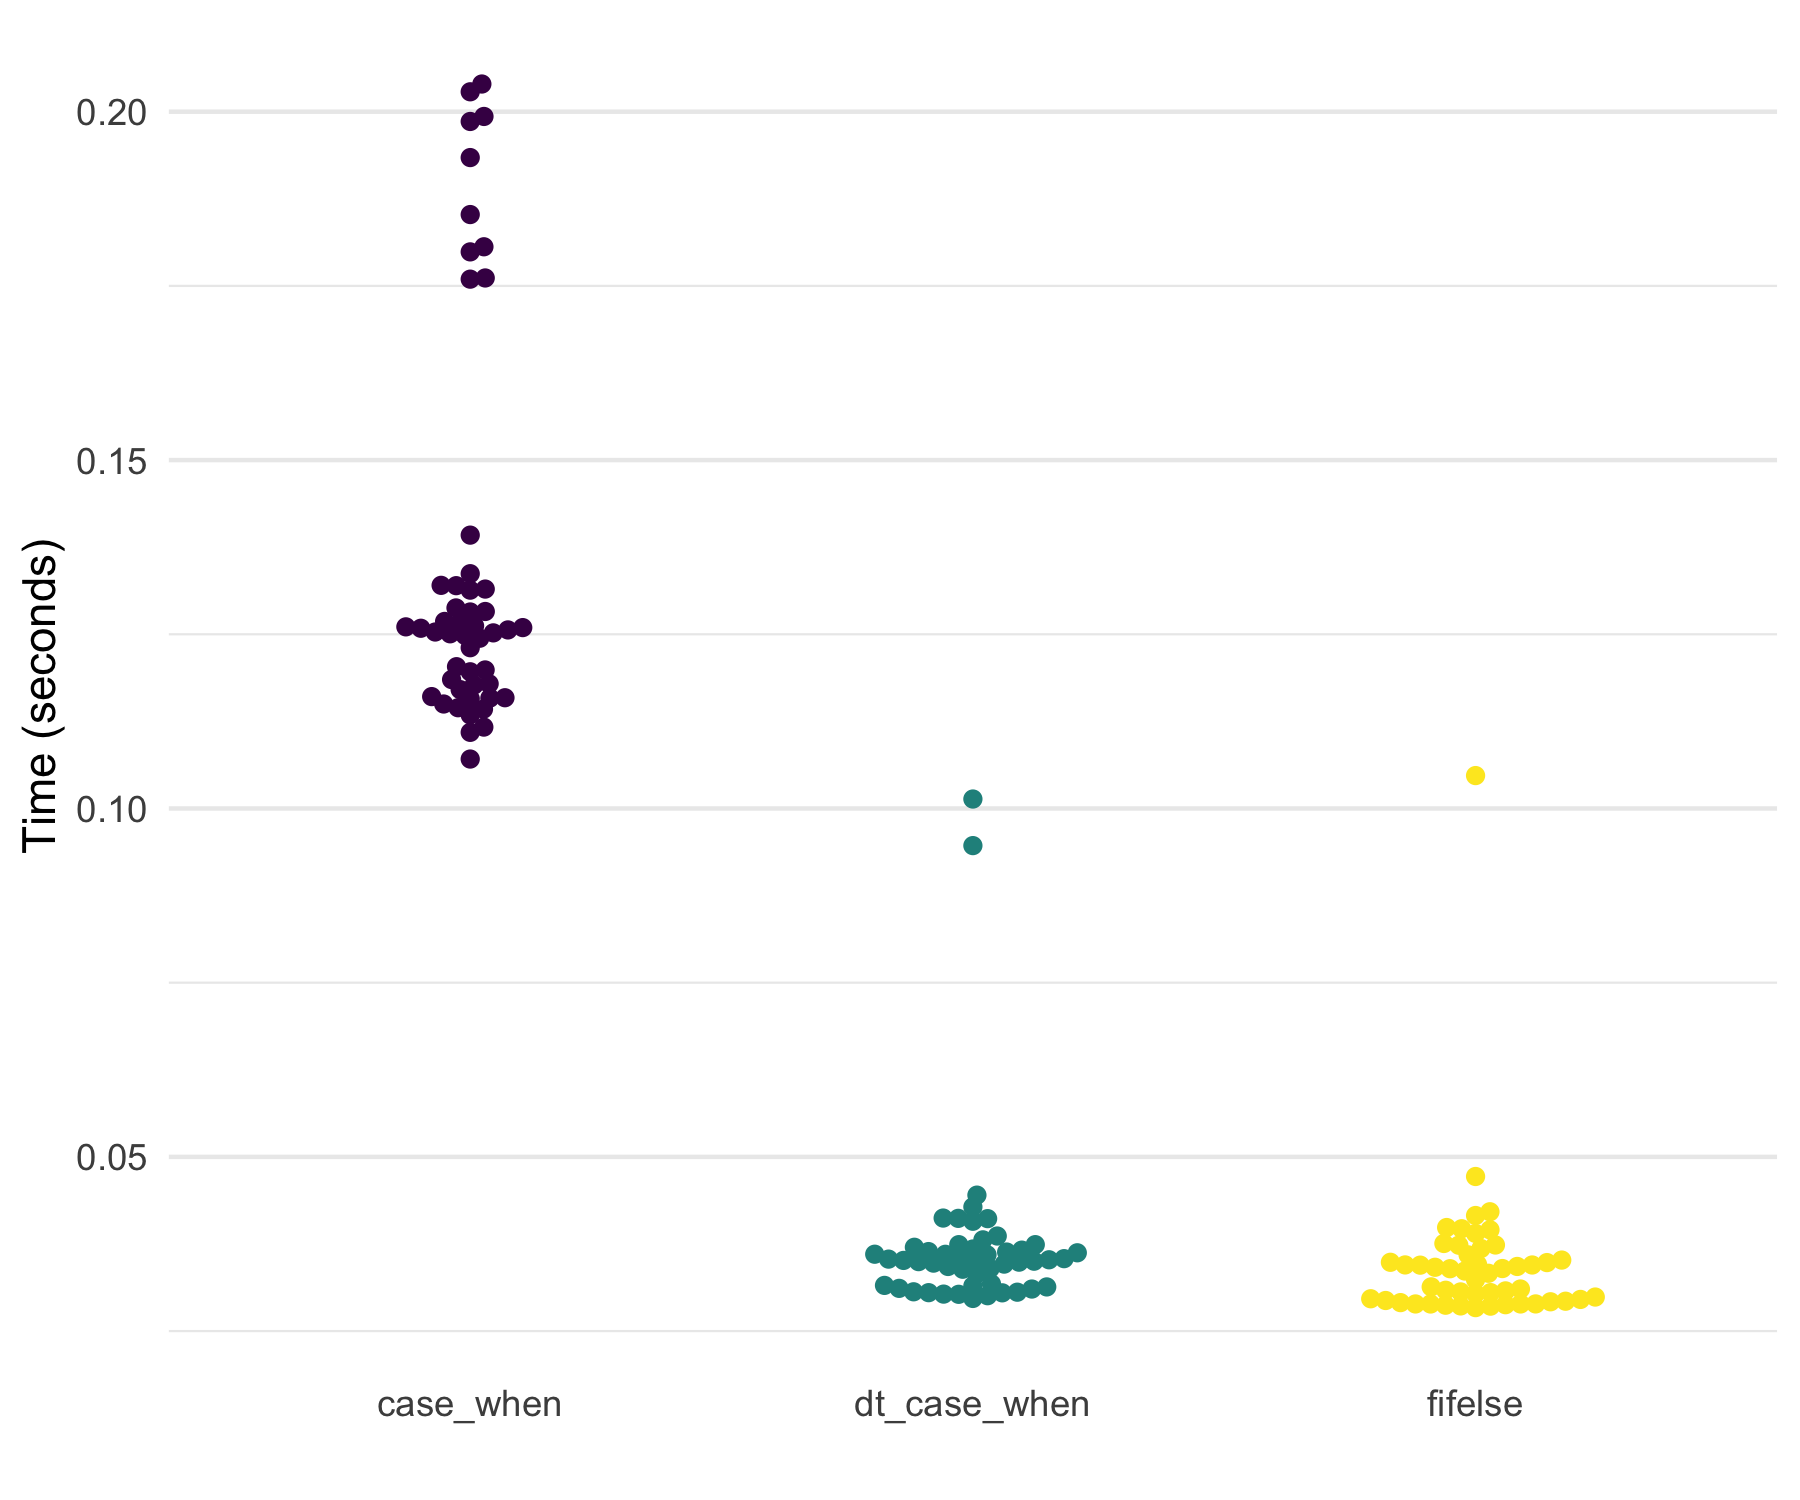
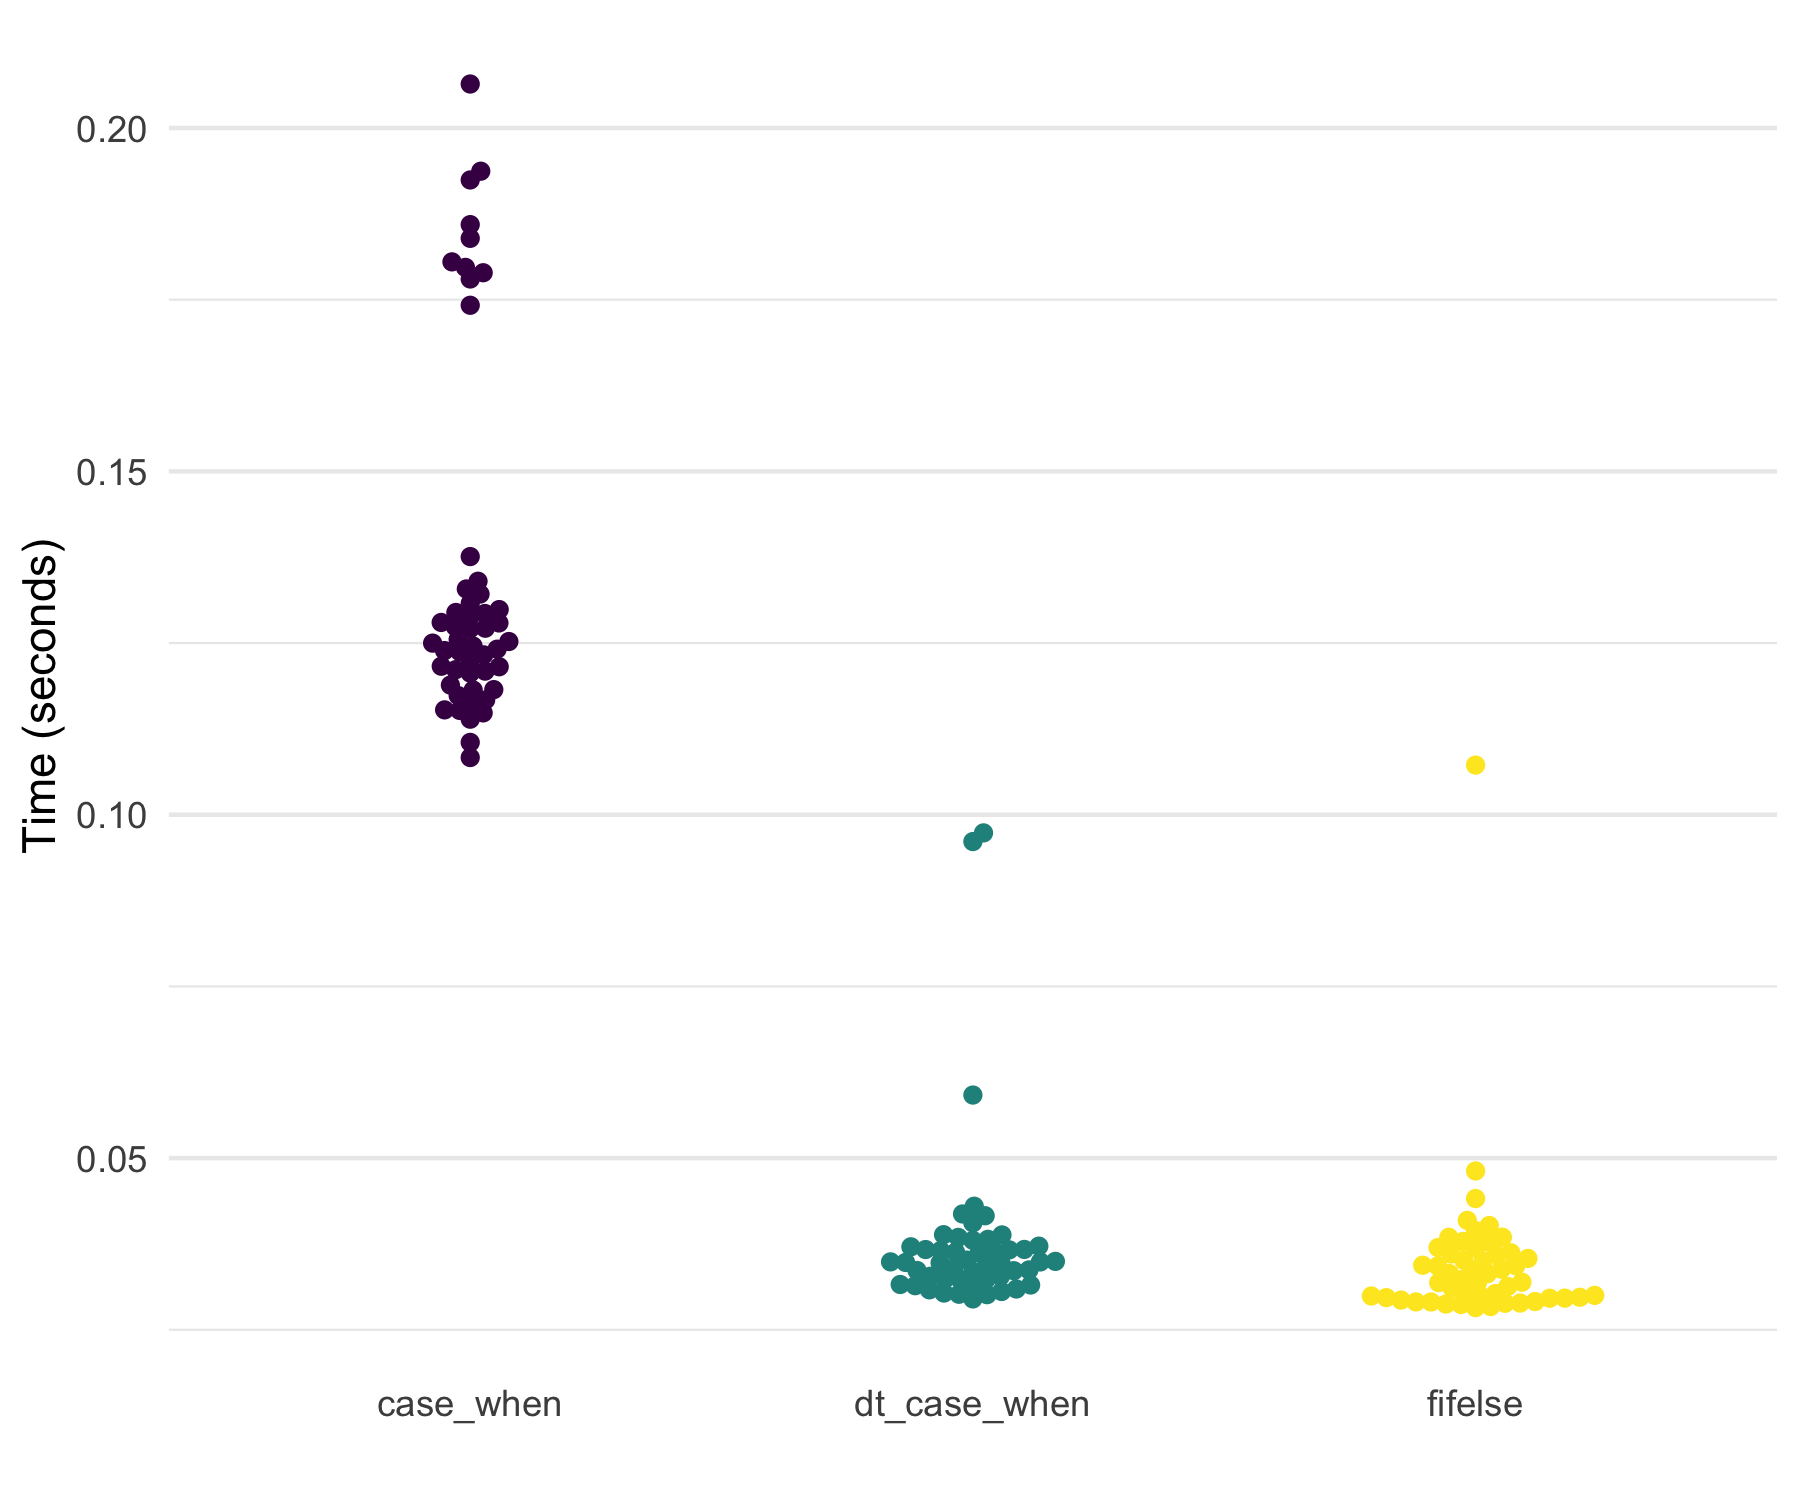
updated readme

diff --git a/README.md b/README.md
@@ -1,10 +1,12 @@
 
 <!-- README.md is generated from README.Rmd. Please edit that file -->
 
-# `tidyfast v0.1.1` <img src=".graphics/tidyfast_hex.png" align="right" width="30%" height="30%" />
+# `tidyfast v0.1.2` <img src=".graphics/tidyfast_hex.png" align="right" width="30%" height="30%" />
 
 <!-- badges: start -->
 
+[![Lifecycle:
+experimental](https://img.shields.io/badge/lifecycle-experimental-orange.svg)](https://www.tidyverse.org/lifecycle/#experimental)
 <!-- badges: end -->
 
 The goal of `tidyfast` is to provide fast and efficient alternatives to
@@ -29,6 +31,20 @@ The current functions include:
   - `dt_case_when()` for `dplyr::case_when()` syntax with the speed of
     `data.table::fifelse()`
 
+**Fill** (similar to `tidyr::fill()`)
+
+  - `dt_fill()` for filling `NA` values with values before it, after it,
+    or both. This can be done by a grouping variable (e.g. fill in `NA`
+    values with values within an individual).
+
+**Separate** (similar to `tidyr::separate()`)
+
+  - `dt_separate()` for splitting a single column into multiple based on
+    a match within the column (e.g., column with “A.B” could be split
+    into two columns by using the period as the separator). It is built
+    on `data.table::tstrsplit()`. This is not well tested yet and lacks
+    some functionality of `tidyr::separate()`.
+
 Package is still in active development.
 
 ## Installation
@@ -41,13 +57,16 @@ You can install the development version from
 devtools::install_github("TysonStanley/tidyfast")
 ```
 
-## Example
+## Examples
+
+### Nesting and Unnesting
 
 The nesting and unnesting functions were shown in a [previous
 preprint](https://psyarxiv.com/u8ekc/) while `dt_case_when()` is really
 new. Herein, I show more simple applications.
 
-The following data table will be used for the examples.
+The following data table will be used for the nesting/unnesting
+examples.
 
 ``` r
 library(tidyfast)
@@ -63,47 +82,45 @@ dt <- data.table(
    id = 1:1e5)
 ```
 
-### Nesting and Unnesting
-
 We can nest this data using `dt_nest()`:
 
 ``` r
 nested <- dt_nest(dt, grp)
 nested
 #>    grp         data
-#> 1:   1 <data.table>
-#> 2:   2 <data.table>
-#> 3:   3 <data.table>
+#> 1:   2 <data.table>
+#> 2:   3 <data.table>
+#> 3:   1 <data.table>
 ```
 
 We can also unnest this with `dt_unnest()`:
 
 ``` r
 dt_unnest(nested, col = data, id = grp)
-#>         grp          x           y         nested1
-#>      1:   1 -1.0115211 0.766285956 1,1,1,1,1,1,...
-#>      2:   1  0.5076320 0.736638242 4,2,3,4,2,4,...
-#>      3:   1 -0.3789664 0.768455267 5,4,4,2,2,2,...
-#>      4:   1 -0.5891213 0.184406583 1,5,8,5,6,7,...
-#>      5:   1  0.3052274 0.453607633 1,1,1,2,2,1,...
-#>     ---                                           
-#>  99996:   3  1.2093696 0.792701916 4,3,6,5,5,2,...
-#>  99997:   3 -1.2967363 0.184104990 1,1,1,2,2,1,...
-#>  99998:   3 -0.6568024 0.008231117 3,1,3,3,3,1,...
-#>  99999:   3  2.2081483 0.596119758 4,2,2,1,4,2,...
-#> 100000:   3  1.0749996 0.645412731 1,5,8,5,6,7,...
-#>                                               nested2    id
-#>      1: thing1,thing1,thing1,thing1,thing1,thing1,...     1
-#>      2: thing2,thing2,thing2,thing2,thing2,thing2,...    14
-#>      3: thing1,thing1,thing1,thing1,thing1,thing1,...    15
-#>      4: thing1,thing1,thing1,thing1,thing1,thing1,...    19
-#>      5: thing2,thing2,thing2,thing2,thing2,thing2,...    22
-#>     ---                                                    
-#>  99996: thing1,thing1,thing1,thing1,thing1,thing1,... 99977
-#>  99997: thing2,thing2,thing2,thing2,thing2,thing2,... 99992
-#>  99998: thing1,thing1,thing1,thing1,thing1,thing1,... 99993
-#>  99999: thing2,thing2,thing2,thing2,thing2,thing2,... 99996
-#> 100000: thing1,thing1,thing1,thing1,thing1,thing1,... 99999
+#>         grp           x         y         nested1
+#>      1:   2 -1.71490559 0.1391240 1,1,1,1,1,1,...
+#>      2:   2 -1.63648042 0.5707004 2,2,1,1,1,1,...
+#>      3:   2 -0.35679806 0.7870723 2,4,2,2,3,4,...
+#>      4:   2 -2.28244999 0.9440325 6,2,4,8,7,6,...
+#>      5:   2  0.43548629 0.8904694 1,1,1,1,1,1,...
+#>     ---                                          
+#>  99996:   1 -0.62731313 0.7978934 6,2,4,8,7,6,...
+#>  99997:   1  0.05632578 0.6222600 2,8,2,4,6,6,...
+#>  99998:   1  0.69281606 0.4868225 2,2,1,1,1,1,...
+#>  99999:   1 -1.14218533 0.1367110 6,1,3,5,3,1,...
+#> 100000:   1  0.57943399 0.1675201 2,3,5,9,1,3,...
+#>                                               nested2     id
+#>      1: thing1,thing1,thing1,thing1,thing1,thing1,...      1
+#>      2: thing2,thing2,thing2,thing2,thing2,thing2,...      2
+#>      3: thing2,thing2,thing2,thing2,thing2,thing2,...      4
+#>      4: thing2,thing2,thing2,thing2,thing2,thing2,...      8
+#>      5: thing1,thing1,thing1,thing1,thing1,thing1,...     11
+#>     ---                                                     
+#>  99996: thing2,thing2,thing2,thing2,thing2,thing2,...  99988
+#>  99997: thing1,thing1,thing1,thing1,thing1,thing1,...  99989
+#>  99998: thing2,thing2,thing2,thing2,thing2,thing2,...  99992
+#>  99999: thing2,thing2,thing2,thing2,thing2,thing2,...  99996
+#> 100000: thing2,thing2,thing2,thing2,thing2,thing2,... 100000
 ```
 
 When our list columns don’t have data tables (as output from
@@ -123,10 +140,10 @@ dt_unnest_vec(dt,
 #>       5:      1       1  thing1
 #>      ---                       
 #>  999996: 100000       3  thing2
-#>  999997: 100000       6  thing2
-#>  999998: 100000       4  thing2
-#>  999999: 100000      10  thing2
-#> 1000000: 100000       7  thing2
+#>  999997: 100000       5  thing2
+#>  999998: 100000       8  thing2
+#>  999999: 100000       7  thing2
+#> 1000000: 100000       6  thing2
 ```
 
 ### If Else
@@ -176,9 +193,68 @@ built on `data.table::fifelse()`.
     #> # A tibble: 3 x 3
     #>   expression     median mem_alloc
     #>   <chr>        <bch:tm> <bch:byt>
-    #> 1 case_when     132.3ms   148.8MB
-    #> 2 dt_case_when   37.5ms    34.3MB
-    #> 3 fifelse          34ms    34.3MB
+    #> 1 case_when     125.4ms   148.8MB
+    #> 2 dt_case_when   34.8ms    34.3MB
+    #> 3 fifelse        32.8ms    34.3MB
+
+## Fill
+
+A new function is `dt_fill()`, which fulfills the role of
+`tidyr::fill()` to fill in `NA` values with values around it (either the
+value above, below, or trying both). This currently relies on the
+efficient `C++` code from `tidyr` (`fillUp()` and `fillDown()`).
+
+``` r
+x = 1:10
+dt_with_nas <- data.table(
+  x = x,
+  y = shift(x),
+  z = shift(x, -1L),
+  a = sample(c(rep(NA, 10), x), 10),
+  grp = sample(1:3, 10, replace = TRUE))
+
+# All defaults
+dt_fill(dt_with_nas)
+#>      x  y  z  a grp
+#>  1:  1 NA  2 NA   2
+#>  2:  2  1  3  2   1
+#>  3:  3  2  4  7   3
+#>  4:  4  3  5  4   3
+#>  5:  5  4  6  3   3
+#>  6:  6  5  7  5   2
+#>  7:  7  6  8  9   1
+#>  8:  8  7  9  9   1
+#>  9:  9  8 10  9   2
+#> 10: 10  9 10  9   3
+
+# by id variable called `grp`
+dt_fill(dt_with_nas, id = grp)
+#>     grp  x  y  z  a
+#>  1:   1  2  1  3  2
+#>  2:   1  7  6  8  9
+#>  3:   1  8  7  9  9
+#>  4:   2  1 NA  2 NA
+#>  5:   2  6  5  7  5
+#>  6:   2  9  8 10  5
+#>  7:   3  3  2  4  7
+#>  8:   3  4  3  5  4
+#>  9:   3  5  4  6  3
+#> 10:   3 10  9  6  3
+
+# both down and then up filling by group
+dt_fill(dt_with_nas, id = grp, .direction = "downup")
+#>     grp  x y  z a
+#>  1:   1  2 1  3 2
+#>  2:   1  7 6  8 9
+#>  3:   1  8 7  9 9
+#>  4:   2  1 5  2 5
+#>  5:   2  6 5  7 5
+#>  6:   2  9 8 10 5
+#>  7:   3  3 2  4 7
+#>  8:   3  4 3  5 4
+#>  9:   3  5 4  6 3
+#> 10:   3 10 9  6 3
+```
 
 ## Note
 
